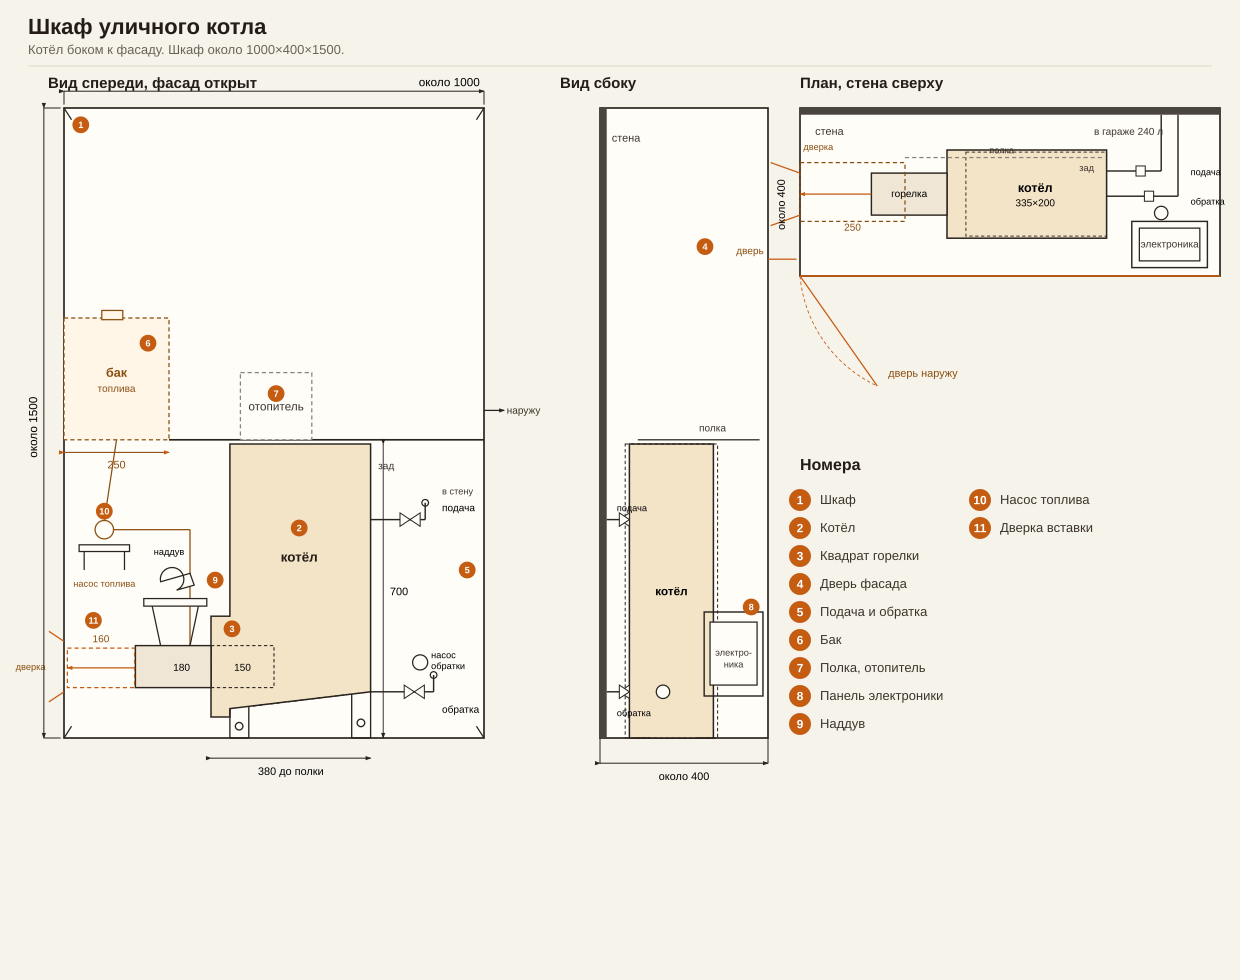
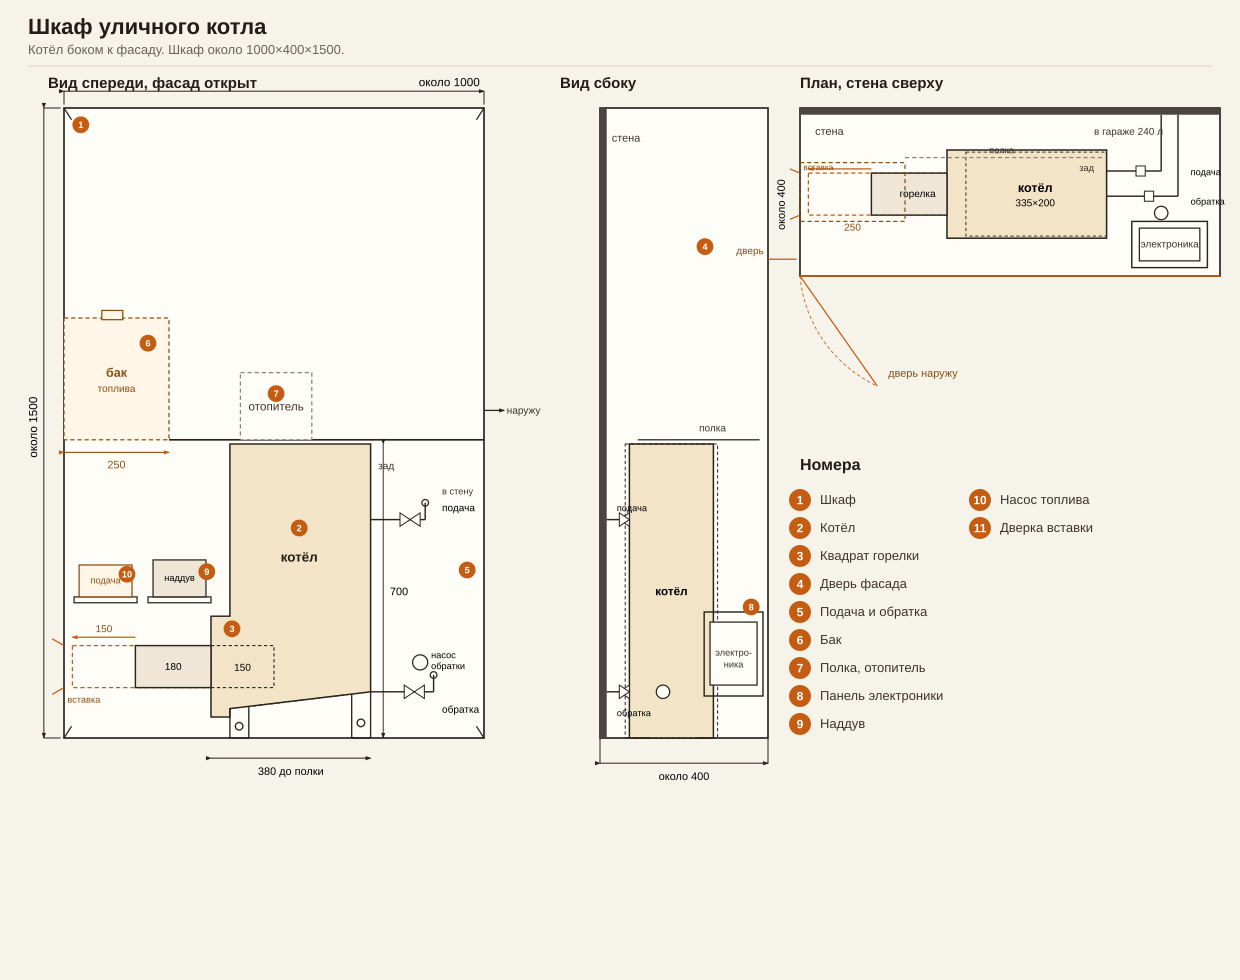
Шкаф: горелка снимается внутрь, дверка только для вставки.
Вытяг 150 мм освобождает внутреннюю часть, весь узел 330 остаётся в шкафу и выносится через фасад. Над горелкой прямоугольники подачи и наддува.

Changed region(s): [[0.0306, 0.4898, 0.1839, 0.7041], [0.6435, 0.1531, 0.7048, 0.2143], [0.1226, 0.6735, 0.1532, 0.7041]]

diff --git a/blueprints/boiler-cabinet/README.md b/blueprints/boiler-cabinet/README.md
@@ -1,13 +1,11 @@
 # Шкаф уличного котла
 
-Компоновка [Котла v2](../burner/README.md#котёл-v2) в уличном шкафу.
+Компоновка [Котла v2](../burner/README.md#котёл-v2).
 
 Чертёж: [SVG](./компоновка.svg).
 
 ![Компоновка шкафа](./компоновка.svg)
 
-Шкаф около **1000×400×1500** мм. Котёл боком: высота **700**, верх **335×200**, до полки **380**, шов сзади **590** и спереди **630**. Горелка наружу квадрат **180**, внутрь **150**. Съёмная часть — вставка-картридж в квадрате, по модели **160×94×94**. Боковая дверка соосна этой оси, фасад для остального. Проём дверки на листе не размечен.
+Шкаф **1000×400×1500** мм. Котёл боком: высота **700**, верх **335×200**, до полки **380**, шов сзади **590** и спереди **630**. Горелка: квадрат **180** наружу, внутрь **150**. Снятие — вытянуть на **150**: весь узел **330** остаётся внутри и выносится через фасад. Боковая дверка на той же оси — для вставки.
 
-Подача и обратка выходят с заднего торца котла: подача в верхней части, обратка внизу водяной части. Короткий участок, кран, поворот **90°** в стену. Насос на обратке — циркуляционный. Насос у бака — накачка топлива на форсунку, модель не задана. Наддув — улитка Kiturami на площадке над квадратом.
-
-Полка отопителя на ширине кроме полосы **250** мм со стороны бака. **250** — место под бак, не его габарит. Контуры бака, отопителя и приборов без снятых размеров. Глубина около **400** мм не проверена: рамка **210**, полки и патрубки шире. Накопитель **240** л в гараже.
+Подача и обратка с заднего торца, кран, **90°** в стену. Над горелкой площадки подачи и наддува. Полка на ширине кроме полосы **250** под бак. Электроника у фасада. Накопитель **240** л в гараже.

diff --git a/todo.md b/todo.md
@@ -35,7 +35,7 @@
   - [ ] Турбулизатор
   - [x] Дно залито: смесь 1:1:2:1, вода и жидкое стекло 2:1. В дальнем конце пластина, керамика с графитом
   - [ ] Отбойник и зольный ящик — ранний план, не сделаны
-- [ ] **[Шкаф Котла v2](blueprints/boiler-cabinet/README.md).** Предварительно около 1000×400×1500. Котёл боком, патрубки с заднего торца, полка и полоса 250, боковая дверка под вставку. [Схема](blueprints/boiler-cabinet/компоновка.svg)
+- [ ] **[Шкаф Котла v2](blueprints/boiler-cabinet/README.md).** 1000×400×1500. Горелка вытягивается на 150 внутрь и выносится через фасад. Боковая дверка — для вставки. [Схема](blueprints/boiler-cabinet/компоновка.svg)
 
 ## 🚰 Коммуникации и сантехника
 - [ ] **Восстановить трубы канализации и водопровода** *(50%, выдолбили почти все, осталось соединить трубы)*
